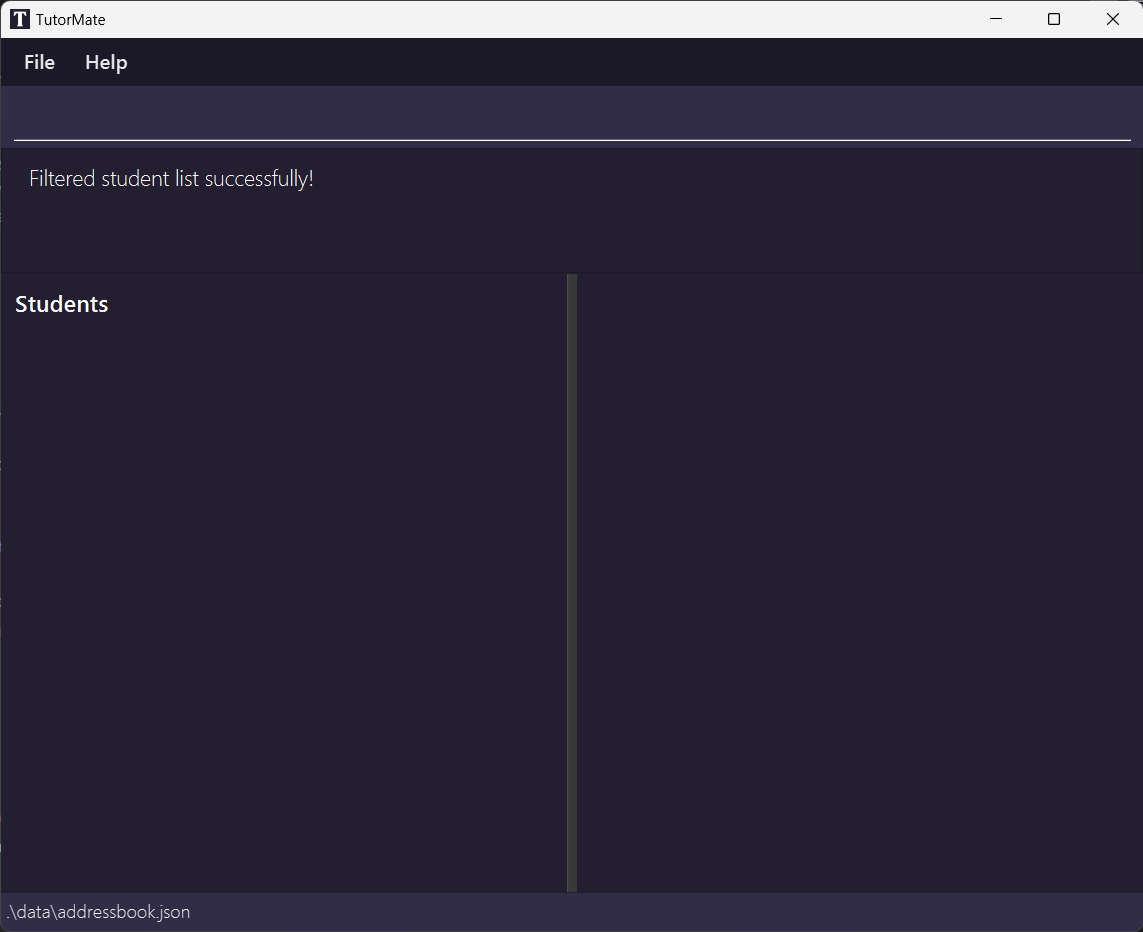
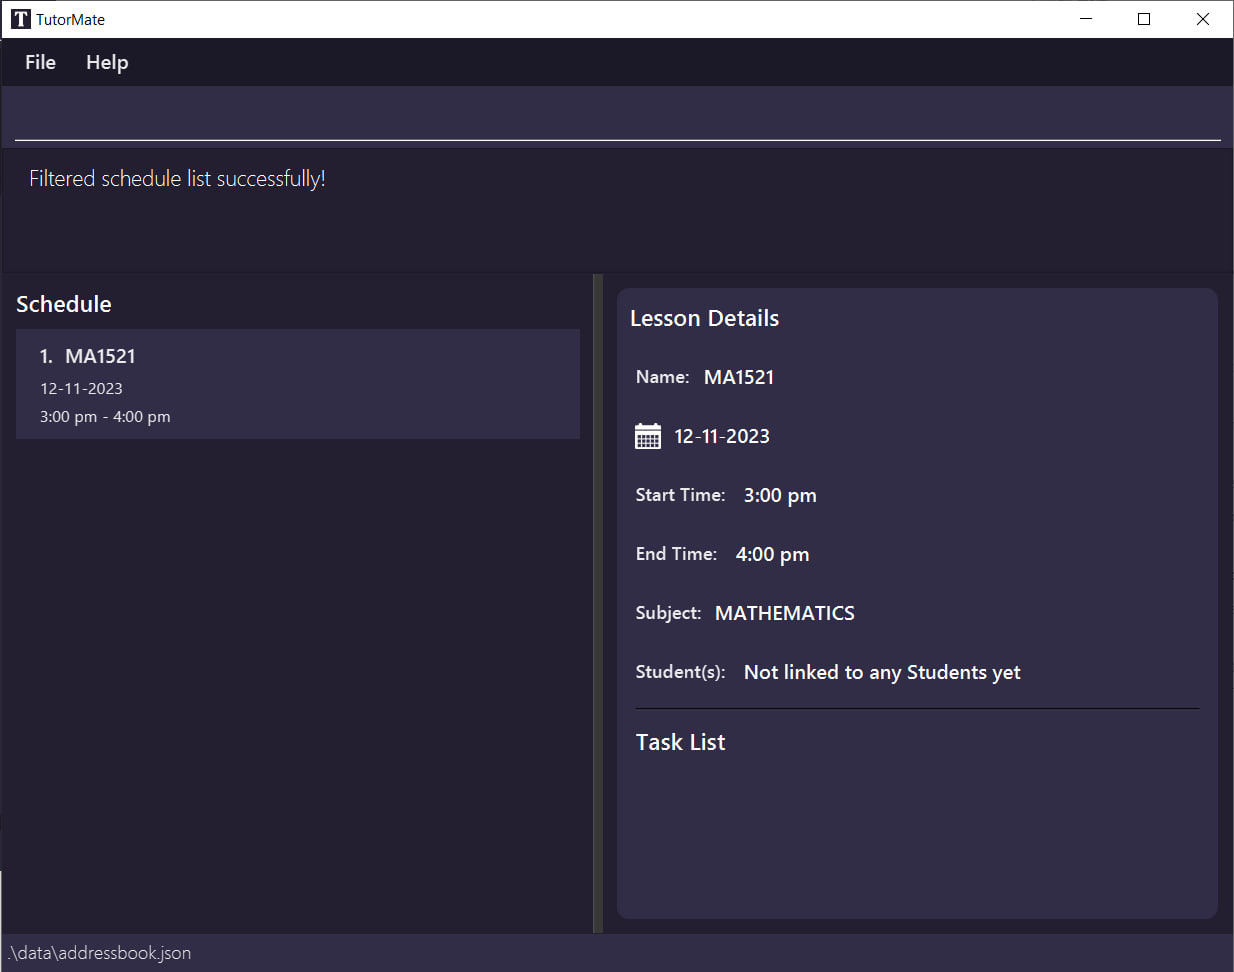
Update pictures

diff --git a/docs/TempUG.md b/docs/TempUG.md
@@ -774,11 +774,11 @@ Example usages:
 * `filter -name CS2103T Lab`
 
 Success outputs:
-* Input: `filter -before 2022/10/10 -subject Mathematics`
+* Input: `filter -before 2023/12/20 -subject Mathematics`
 ```
 Filtered schedule list successfully!
 ```
-![Success for filter 1](images/filter/filter_positive_1.png)
+![Success for filter 2](images/filter/filter_positive_2.png)
 Failure outputs:
 * Input: `filter -before 2022/10/10 -after 2022/01/01`
   * Error: Both the `-before` and `-after` flags are specified. Use only one of `-before`, `-after`, and `-on` in the same command.
